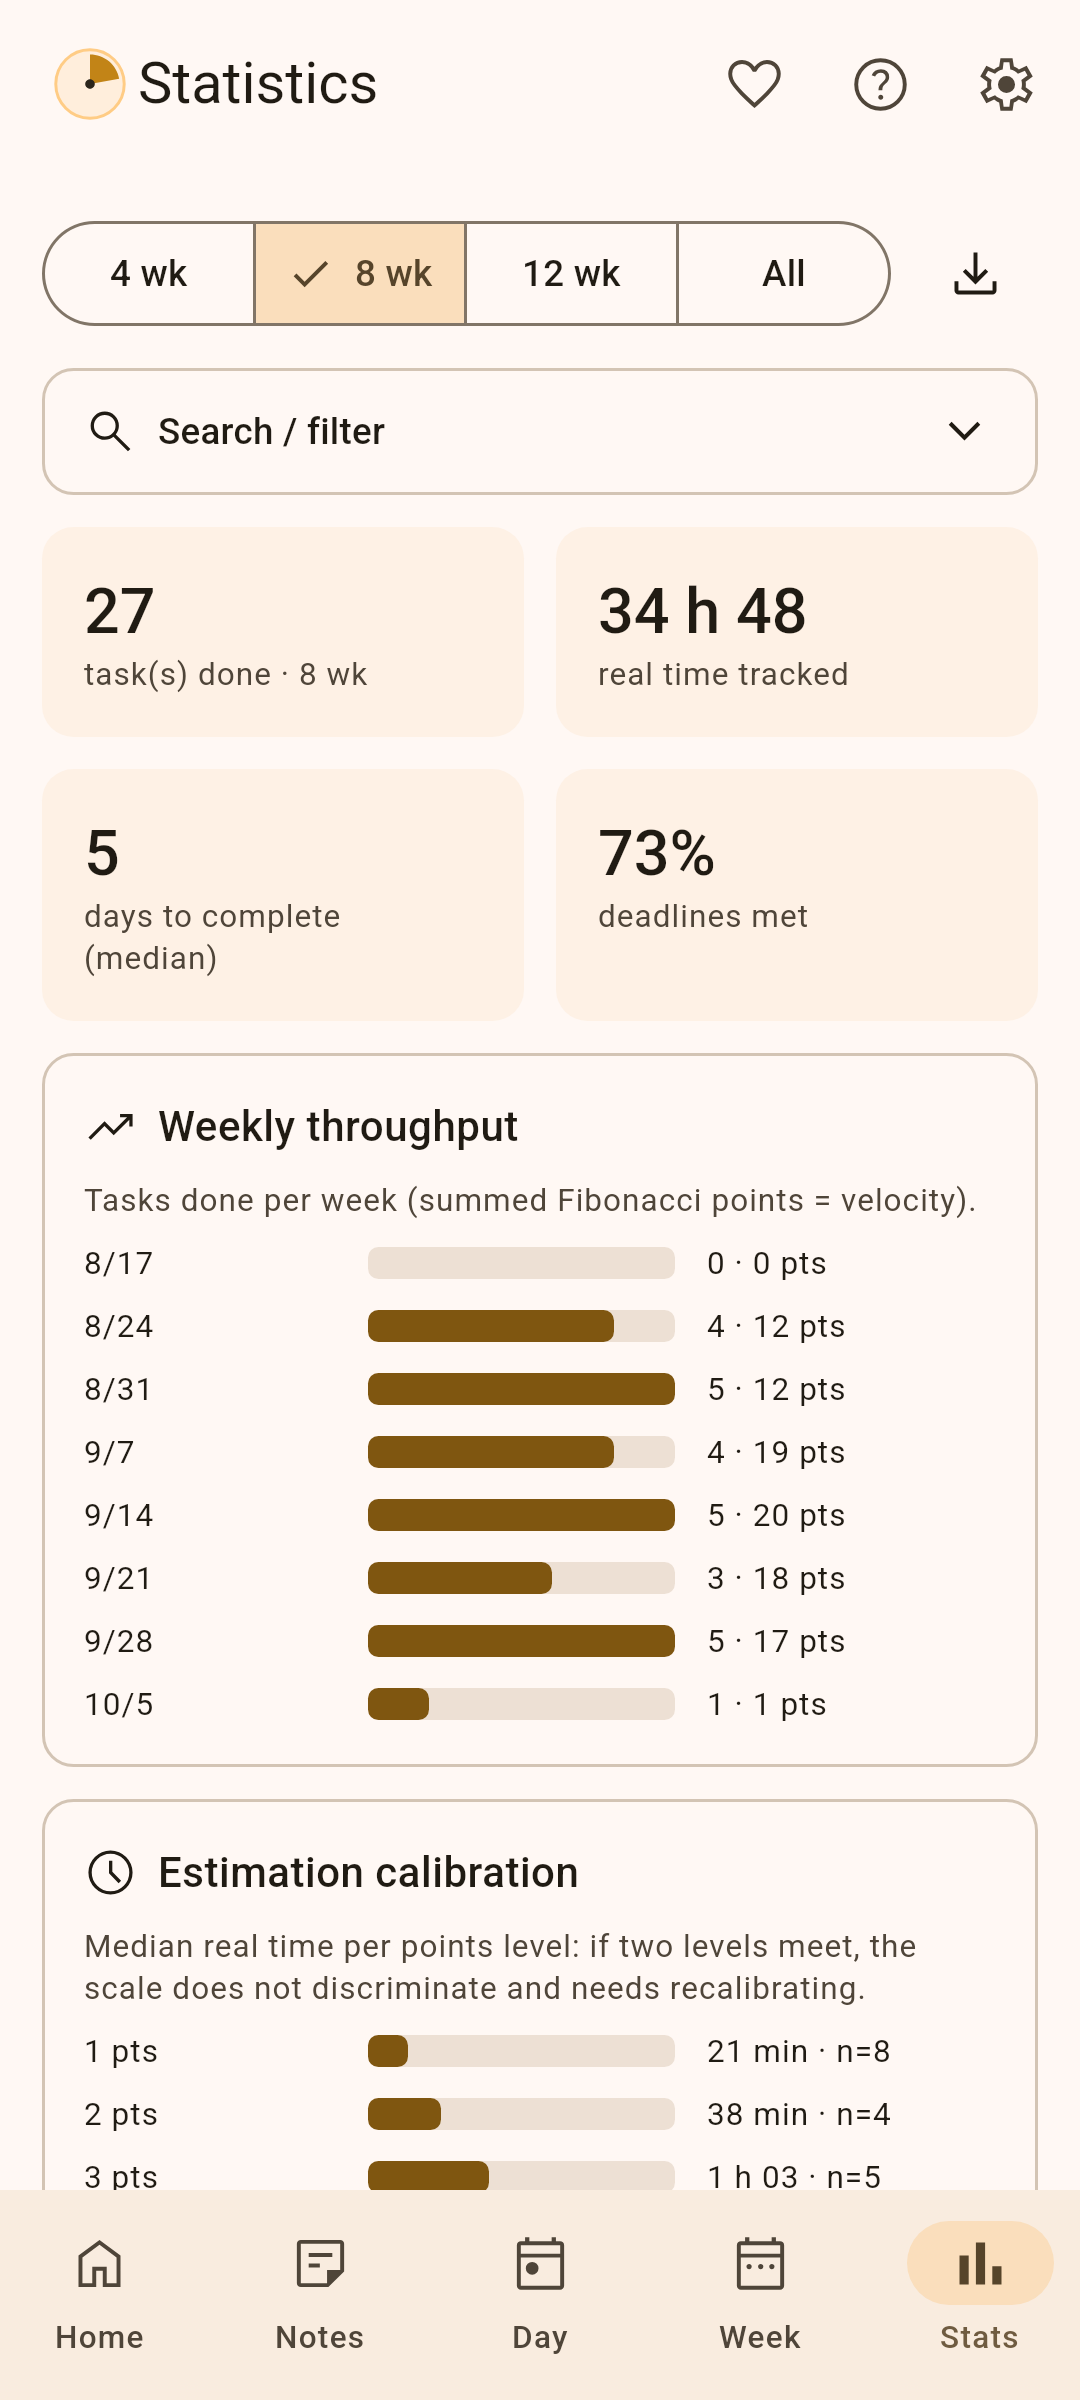
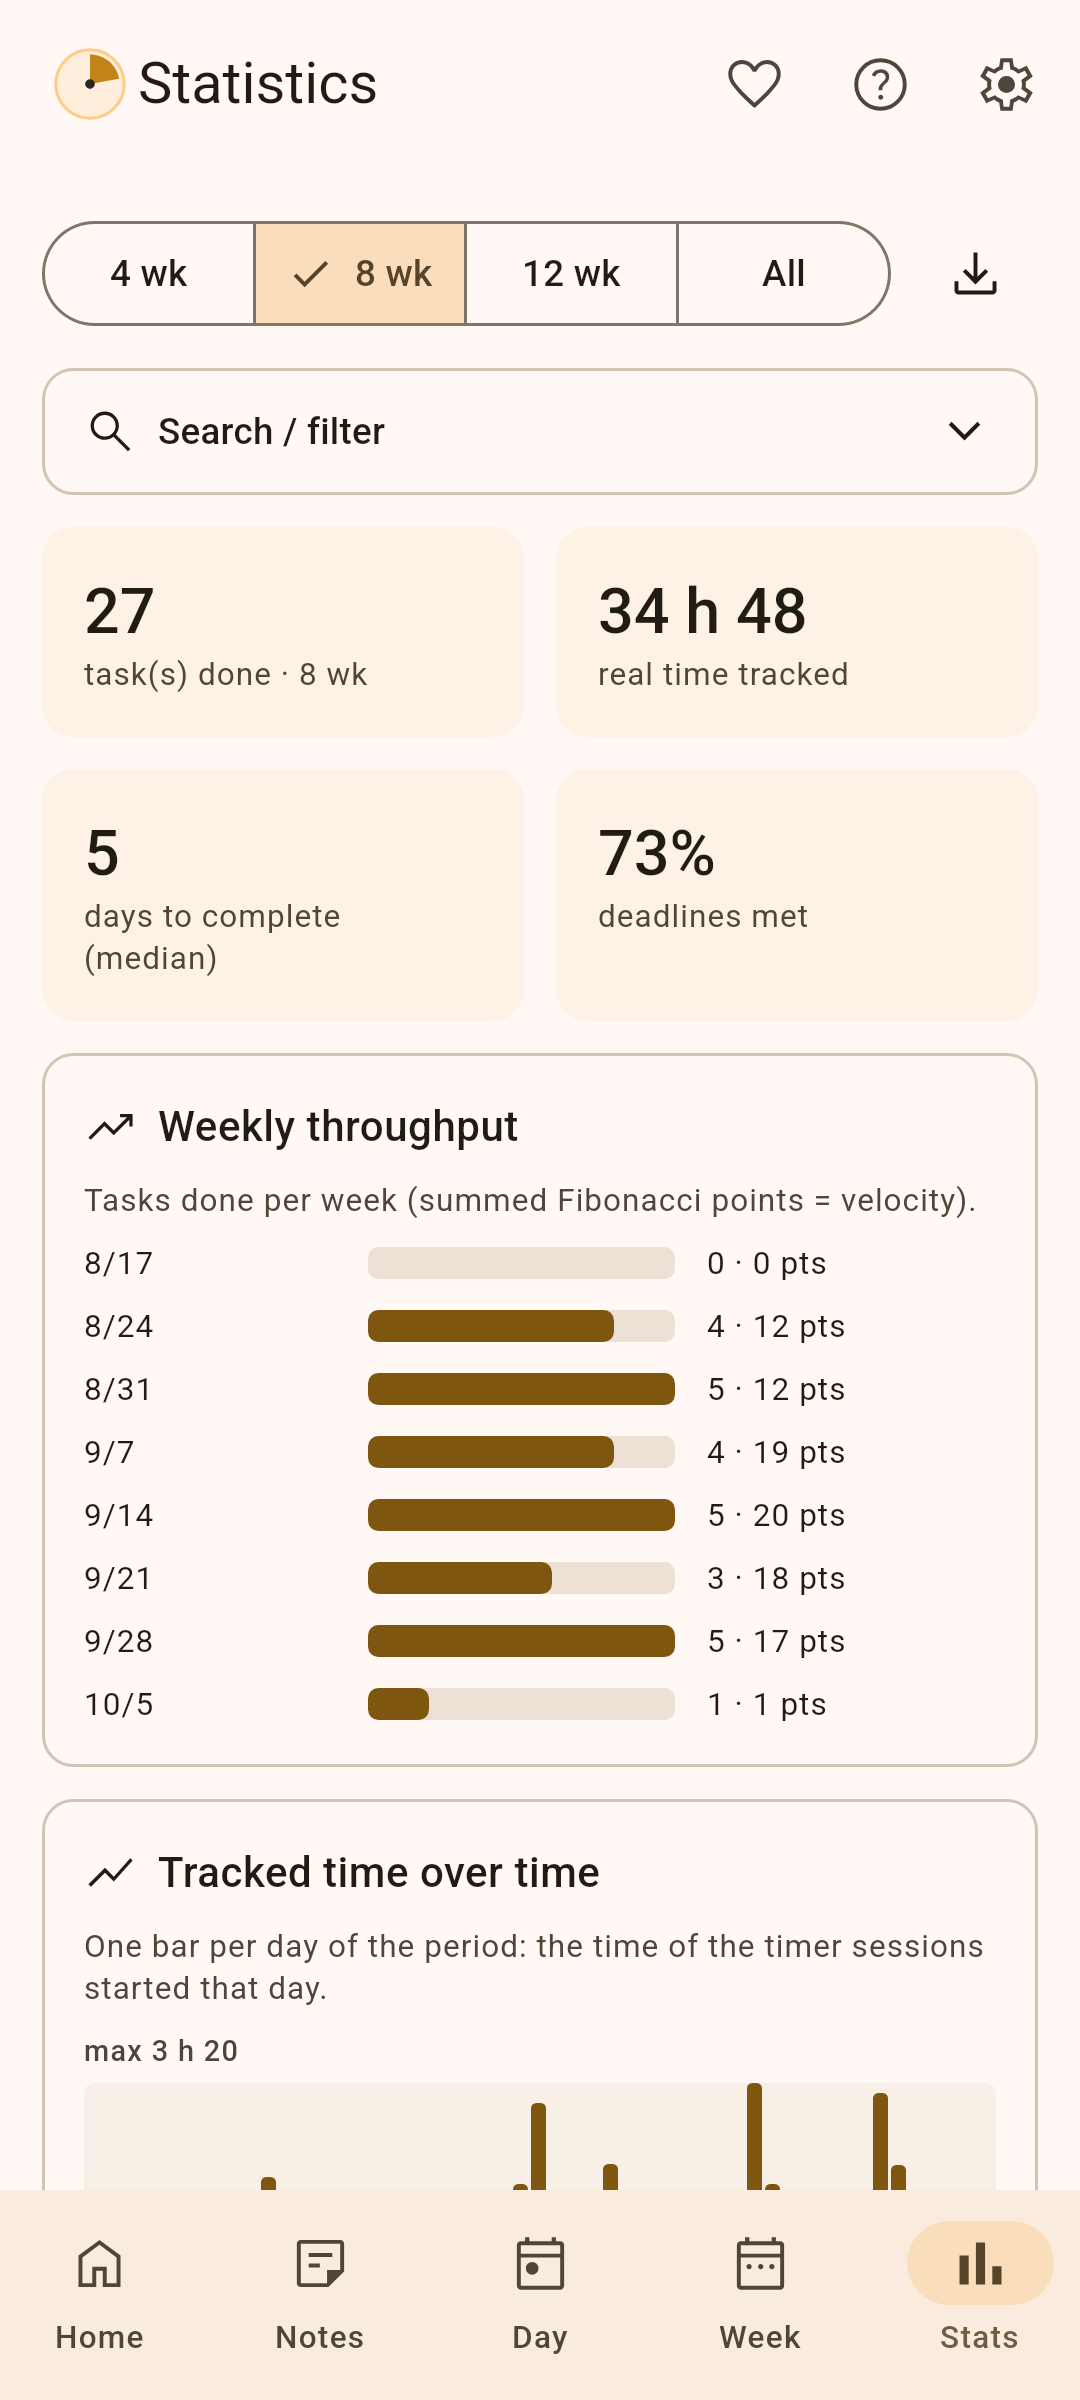
Kairos 3.8.0 : version 30800, notes de version FR/EN, cartes « Nouveau dans cette version »
- kmp/gradle.properties : 3.8.0 / 30800 ; changelogs/30800.txt en français
  et en anglais.
- Cinq cartes since = "3.8.0" : créneaux mensuels et une seule
  occurrence, vue Mois, évolutions des statistiques, corriger les
  estimations, rappels (FeatureCatalogTest.newIn) ; GuideSpotUiTest tire
  la place des cartes du catalogue, carte « Rappels » testée.
- Captures des magasins régénérées (Semaine, Statistiques, Réglages).
- Specs distribution, navigation-theme ; feuille de route (3.8.0
  préparée, 3.9.0 prochaine).

Claude-Session: https://claude.ai/code/session_01PYVCi3UZV3tZiWq1mBuiYp

Changed region(s): [[0.0917, 0.75, 0.7944, 0.9375], [0.7944, 0.8438, 0.825, 0.9375]]

diff --git a/kmp/desktopApp/src/jvmTest/kotlin/com/skohscripts/kairos/desktop/GuideSpotUiTest.kt b/kmp/desktopApp/src/jvmTest/kotlin/com/skohscripts/kairos/desktop/GuideSpotUiTest.kt
@@ -1,5 +1,7 @@
 package com.skohscripts.kairos.desktop
 
+import com.skohscripts.kairos.ui.guide.FeatureCatalog
+import com.skohscripts.kairos.ui.guide.GuideChapter
 import androidx.compose.ui.test.ComposeUiTest
 import androidx.compose.ui.test.ExperimentalTestApi
 import androidx.compose.ui.test.onAllNodesWithText
@@ -67,6 +69,9 @@ class GuideSpotUiTest {
         waitUntil(conditionDescription = "disparition de « $text »", timeoutMillis = 15_000) { onAllNodesWithText(text).fetchSemanticsNodes().isEmpty() }
 
     /** Aide → « Discover Kairos » → [chapter] → [next] fois « Next » → « Show me the screen ». */
+    /** Nombre de « Next » pour atteindre la carte [id] de [chapter]. */
+    private fun position(chapter: GuideChapter, id: String) = FeatureCatalog.chapter(chapter).indexOfFirst { it.id == id }.also { require(it >= 0) }
+
     private fun ComposeUiTest.showCard(chapter: String, next: Int, title: String) {
         onNodeWithContentDescription("Help").performClick()
         onNodeWithText("Discover Kairos").performClick()
@@ -111,8 +116,8 @@ class GuideSpotUiTest {
     fun theDarkThemeCardOpensTheAppearanceCardAndMarksIt() = runComposeUiTest {
         val services = services()
         setContent { KairosApp(Platform.DESKTOP, Destination.DAY, TeamDestination.BOARD) { services } }
-        // « Settings » (3.7.0) : réglages clairs, réglages par catégories, puis thème sombre.
-        showCard("Settings", 2, "Dark theme")
+        // « Settings » : la place de la carte est tirée du catalogue (une carte ajoutée avant elle ne casse pas le test).
+        showCard("Settings", position(GuideChapter.SETTINGS, "darktheme"), "Dark theme")
         waitText("Follows the system.")
         waitText("Here")
     }
@@ -121,9 +126,19 @@ class GuideSpotUiTest {
     fun theHolidaysCardOpensThePublicHolidaysCardAndMarksIt() = runComposeUiTest {
         val services = services()
         setContent { KairosApp(Platform.DESKTOP, Destination.DAY, TeamDestination.BOARD) { services } }
-        // « Organize » : sous-tâches, récurrence, bloqueurs, créneaux, puis fériés des créneaux « jours ouvrés » (3.7.0).
-        showCard("Organize", 4, "Weekday slots skip holidays")
+        // « Organize » : fériés des créneaux « jours ouvrés » (3.7.0), à sa place dans le catalogue.
+        showCard("Organize", position(GuideChapter.ORGANIZE, "holidays_slots"), "Weekday slots skip holidays")
         waitText("Public holidays", substring = true)
+        waitText("Here")
+    }
+
+    @Test
+    fun theRemindersCardOpensTheRemindersSectionAndMarksIt() = runComposeUiTest {
+        val services = services()
+        setContent { KairosApp(Platform.DESKTOP, Destination.DAY, TeamDestination.BOARD) { services } }
+        // Rappels (3.8.0, docs/spec/rappels.md) : la section de « Timer and statistics ».
+        showCard("Settings", position(GuideChapter.SETTINGS, "reminders"), "Reminders before it is time")
+        waitText("Remind me of fixed-time tasks")
         waitText("Here")
     }
 

diff --git a/kmp/ui/src/jvmTest/kotlin/com/skohscripts/kairos/ui/guide/FeatureCatalogTest.kt b/kmp/ui/src/jvmTest/kotlin/com/skohscripts/kairos/ui/guide/FeatureCatalogTest.kt
@@ -55,6 +55,10 @@ class FeatureCatalogTest {
             setOf("guide_memory", "week_move", "stats_explore", "holidays_slots", "settings_categories", "darktheme"),
             FeatureCatalog.newIn("3.7.0").map { it.id }.toSet(),
         )
+        assertEquals(
+            setOf("slots_month", "month", "stats_trends", "stats_correct", "reminders"),
+            FeatureCatalog.newIn("3.8.0").map { it.id }.toSet(),
+        )
         // Les versions qui n'ajoutent rien (ou illisibles) n'affichent rien.
         assertEquals(emptyList(), FeatureCatalog.newIn("3.3.0"))
         assertEquals(emptyList(), FeatureCatalog.newIn("garbage"))

diff --git a/docs/ROADMAP.md b/docs/ROADMAP.md
@@ -15,17 +15,18 @@ utilisateurs) ; ce document est en français comme le reste de `docs/`.
 | Milestone | Sens |
 |---|---|
 | `3.7.0` | Version préparée (`30700`, notes de version FR/EN ; tag `v3.7.0` posé par le propriétaire) : suites du guide (#94, #95), déplacer depuis la vue Semaine (#106), fériés des créneaux « jours ouvrés » par défaut (#109), export et filtres des statistiques (#113, #114), thème sombre (#72), Réglages par catégories (PR #124). |
-| `3.8.0` | Prochaine version : vue Mois, créneaux mensuels, occurrence unique, graphiques de statistiques, correction des estimations, accompagnement de la fiche Équipe. |
+| `3.8.0` | Version préparée (`30800`, notes de version FR/EN ; tag `v3.8.0` posé par le propriétaire) : vue Mois (#107), créneaux mensuels (#108), une seule occurrence d'un créneau (#110), évolutions des statistiques (#112), corriger les estimations (#101), rappels (#103, spec `rappels.md`), première tâche d'équipe guidée (#97). |
 | `3.9.0` | Suites déjà spécifiées ou écartées « pour l'instant » : échanges et capacité de l'Équipe (#104, #120, #121), accompagnement des récurrences et des Réglages (#98), noms des niveaux (#93), meilleures heures v2 (#105), réglages avancés (#115). Brouillon, plusieurs issues y attendent encore une décision. |
 | `3.10.0` | Connexions externes **sans réseau ni compte** (suivi : #140) : import d'un calendrier `.ics` dans les créneaux occupés (#136, rouvre « événements de calendrier externes » d'`ordonnancement.md`), fichier lié sur le bureau et Android (#137, la moitié « écriture » de #88), créneaux lus dans les calendriers du téléphone (#138, permission `READ_CALENDAR` à trancher). Brouillon. |
 | `4.0.0` | **Version majeure** : ce qui change le modèle de données, le format d'échange ou une décision fondatrice de `docs/spec/`, donc ne peut pas entrer dans une version mineure. Aujourd'hui : synchronisation par fichier entre appareils (#88) et ses suites (#100), connexion en ligne à un calendrier (#139, rouvre « sans permission réseau »), estimateur appris (#99, réservé à une version majeure par `durees-apprises.md`), plusieurs équipes par base (#118). |
 | `Backlog` | Non planifié : décision ou spec à écrire d'abord, dépendance externe (signature, synchronisation) ou attente de retours. |
 
-Le contenu de `3.8.0`, `3.9.0`, `3.10.0` et `4.0.0` est un **brouillon de planification**
+Le contenu de `3.9.0`, `3.10.0` et `4.0.0` est un **brouillon de planification**
 (issues #93 à #121 réparties le 2026-10-19, `3.9.0` et `4.0.0` remplis le 2026-10-24,
 `3.10.0` créé le même jour pour les connexions externes) :
-un milestone se déplace librement, rien n'est promis. Seule la **prochaine version** doit
-être « propre » (voir ci-dessous) ; `3.9.0`, `3.10.0` et `4.0.0` sont des horizons et gardent les
+un milestone se déplace librement, rien n'est promis. Seule la **prochaine version** (`3.9.0` depuis la préparation de
+la `3.8.0`, le 2026-10-24 ; ses labels d'état restent à trier par la routine `kairos-retours`) doit
+être « propre » (voir ci-dessous) ; `3.10.0` et `4.0.0` sont des horizons et gardent les
 labels d'état de leurs issues, qui disent ce qu'il reste à trancher avant de les tirer
 vers la prochaine version.
 Une version n'est plus « brouillon » quand ses issues ont une spec à jour dans
@@ -46,7 +47,7 @@ Une version n'est plus « brouillon » quand ses issues ont une spec à jour dan
 - Un **milestone** : une version quand l'issue est planifiée, `Backlog` sinon.
 - Une issue du `Backlog` porte un **label d'état** qui dit ce qui la retient ; une issue
   rangée dans **la prochaine version** n'en porte plus (`deferred` et `needs-*` sortent à la
-  planification) ; dans une version plus lointaine (`3.9.0`, `3.10.0`, `4.0.0`), elle les garde.
+  planification) ; dans une version plus lointaine (`3.10.0`, `4.0.0`), elle les garde.
 - Un retour utilisateur non encore qualifié porte `feedback` (vue `Feedback` du Project).
 - Les issues closes gardent leurs labels de type et de domaine (historique cherchable).
 
@@ -92,7 +93,7 @@ qui suit se fait en cinq minutes.
    | Vue | Type | Réglage |
    |---|---|---|
    | `Roadmap` | Board | Colonnes = `Milestone` ; filtre `-status:Done` |
-   | `Board` | Board | Colonnes = `Status` ; filtre `milestone:3.7.0,3.8.0` |
+   | `Board` | Board | Colonnes = `Status` ; filtre `milestone:3.8.0,3.9.0` |
    | `Feedback` | Table | Filtre `label:feedback status:Inbox` ; tri par date de création |
    | `Decisions` | Table | Filtre `label:needs-decision,needs-spec` ; groupé par `Milestone` |
    | `By area` | Table | Groupé par `Labels` ; filtre `-status:Done` |

diff --git a/docs/spec/distribution.md b/docs/spec/distribution.md
@@ -77,7 +77,7 @@ remplacer ; une version stable s'installe par-dessus la précédente.
   (bascule) : `3.0.0` (`30000`).
   Versions suivantes : `3.1.0` (`30100`), `3.2.0` (`30200`), `3.3.0` (`30300`), puis `3.4.0` (`30400`, issue #64 :
   horaires par jour de la semaine, durées apprises, catalogue de fonctionnalités et première tâche guidée, ergonomie et
-  réglages, retrait de l'import de l'ancienne version ; notes `30400.txt` en français et en anglais), puis `3.5.0` (`30500`, issue #64 : plusieurs plages par jour et contextes, carte Statistiques « Quand tu travailles chaque type » ; notes `30500.txt` en français et en anglais), puis `3.6.0` (`30600`, issue #64 : réglage « Meilleures heures », le planning préfère les heures habituelles ou préférées de chaque type ; notes `30600.txt` en français et en anglais), puis `3.7.0` (`30700` : thème sombre, issue #72 ; filtres et export des statistiques, #114 et #113 ; déplacer depuis la vue Semaine, #106 ; fériés des créneaux « jours ouvrés », #109 ; Réglages par catégories, PR #124 ; guide qui retient et montre l'endroit, #94 et #95 ; notes `30700.txt` en français et en anglais).
+  réglages, retrait de l'import de l'ancienne version ; notes `30400.txt` en français et en anglais), puis `3.5.0` (`30500`, issue #64 : plusieurs plages par jour et contextes, carte Statistiques « Quand tu travailles chaque type » ; notes `30500.txt` en français et en anglais), puis `3.6.0` (`30600`, issue #64 : réglage « Meilleures heures », le planning préfère les heures habituelles ou préférées de chaque type ; notes `30600.txt` en français et en anglais), puis `3.7.0` (`30700` : thème sombre, issue #72 ; filtres et export des statistiques, #114 et #113 ; déplacer depuis la vue Semaine, #106 ; fériés des créneaux « jours ouvrés », #109 ; Réglages par catégories, PR #124 ; guide qui retient et montre l'endroit, #94 et #95 ; notes `30700.txt` en français et en anglais), puis `3.8.0` (`30800` : vue Mois, #107 ; créneaux mensuels, #108 ; une seule occurrence d'un créneau, #110 ; évolutions des statistiques, #112 ; corriger les estimations, #101 ; rappels, #103 ; première tâche d'équipe guidée, #97 ; notes `30800.txt` en français et en anglais).
 - Formats acceptés (`AppVersion.parse`) : `X.Y.Z`, `X.Y.Z-alpha.N`,
   `X.Y.Z-beta.N` (préfixe `v` toléré ; `Y`, `Z` ≤ 99 ; `N` de 1 à 499).
 - `versionCode` (`AppVersion.versionCode`) : `X*10000 + Y*100 + Z` ; alpha :

diff --git a/docs/spec/navigation-theme.md b/docs/spec/navigation-theme.md
@@ -144,7 +144,9 @@ aussi pouvoir comprendre ce que fait l'outil sans lire le dépôt.
   `Palette`, `Update`, `Work`, `CalendarViewWeek`, `Workspaces`, `Label`, `LightMode`, `History`, `Shield`,
   `Leaderboard`, `Bedtime`, `SettingsBackupRestore` (titres des cartes) ; guide (`visite-guidee.md`, issue #95) : `Spot`
   (étiquette « Ici » d'une section montrée) ; export des Stats (`statistiques.md`, issue #113) : `TableView` (CSV),
-  `Image` (image d'une carte) ; carte « Thème sombre » du guide (3.7.0) : `DarkMode`.
+  `Image` (image d'une carte) ; carte « Thème sombre » du guide (3.7.0) : `DarkMode` ; 3.8.0 : `Flag` (échéances de la vue Mois),
+  `CalendarMonth` (carte « Le mois d'un coup d'œil »), `ShowChart` (temps chronométré au fil du temps), `EditNote`
+  (« Corriger les estimations… »), `Alarm` (rappels).
   `Construction` (écran « En construction ») est retiré au
   jalon M5, plus rien n'étant en construction.
 - `KairosLogo.kt` : le cadran solaire (cadran `#FFEEDC`, anneau `#FFCC85`
